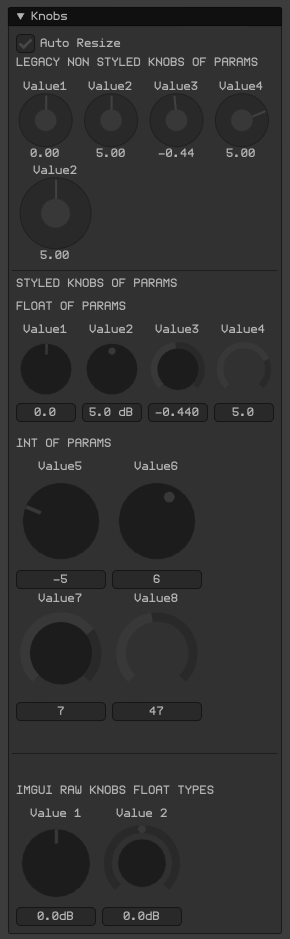
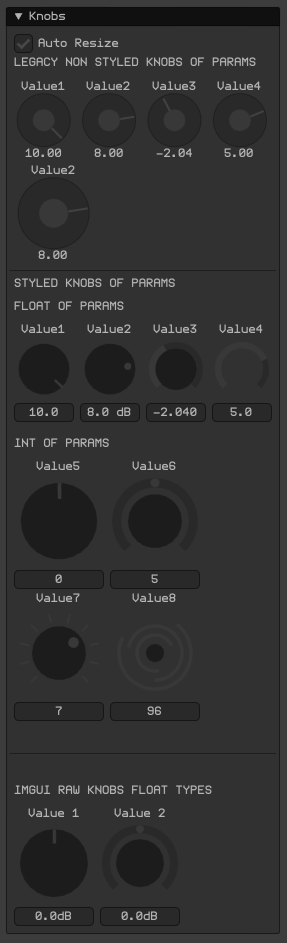
+

diff --git a/1_Widgets/1_8_Knobs/src/ofApp.cpp b/1_Widgets/1_8_Knobs/src/ofApp.cpp
@@ -41,15 +41,15 @@ void ofApp::draw() {
 				// Legacy Non Styled Knobs ofParams
 
 				ImGui::Text("LEGACY NON STYLED KNOBS OF PARAMS");
-				ofxImGuiSurfing::AddSpacingDouble(); 
-				
+				ofxImGuiSurfing::AddSpacingDouble();
+
 				guiManager.Add(valueKnob1, OFX_IM_KNOB, 4, true);
 				guiManager.Add(valueKnob2, OFX_IM_KNOB, 4, true);
 				guiManager.Add(valueKnob3, OFX_IM_KNOB, 4, true);
 				guiManager.Add(valueKnob4, OFX_IM_KNOB, 4, false);
 
 				ofxImGuiSurfing::AddKnob(valueKnob2);
-				
+
 				ofxImGuiSurfing::AddSpacingSeparated();
 
 				//-
@@ -63,6 +63,7 @@ void ofApp::draw() {
 				ofxImGuiSurfing::AddSpacingDouble();
 
 				float size1 = 60;
+
 				ofxImGuiSurfing::AddKnobStyled(valueKnob1, OFX_IMGUI_KNOB_TICKKNOB, size1, "%.1f");
 				ImGui::SameLine();
 				ofxImGuiSurfing::AddKnobStyled(valueKnob2, OFX_IMGUI_KNOB_DOTKNOB, size1, "%.1f dB");
@@ -77,13 +78,20 @@ void ofApp::draw() {
 				ofxImGuiSurfing::AddSpacingDouble();
 
 				float size2 = 90;
-				ofxImGuiSurfing::AddKnobStyled(valueKnob5, OFX_IMGUI_KNOB_TICKKNOB, size2);
-				ImGui::SameLine();
-				ofxImGuiSurfing::AddKnobStyled(valueKnob6, OFX_IMGUI_KNOB_DOTKNOB, size2);
 
-				ofxImGuiSurfing::AddKnobStyled(valueKnob7, OFX_IMGUI_KNOB_WIPERKNOB, size2);
+				ImGuiKnobFlags flags;
+				flags += ImGuiKnobFlags_ValueTooltip;
+				flags += ImGuiKnobFlags_NoTitle;
+				flags += ImGuiKnobFlags_NoInput;
+				flags += ImGuiKnobFlags_DragHorizontal;
+				ofxImGuiSurfing::AddKnobStyled(valueKnob5, OFX_IMGUI_KNOB_TICKKNOB, size2, "-1", flags);
+
 				ImGui::SameLine();
-				ofxImGuiSurfing::AddKnobStyled(valueKnob8, OFX_IMGUI_KNOB_WIPERONLYKNOB, size2);
+				ofxImGuiSurfing::AddKnobStyled(valueKnob6, OFX_IMGUI_KNOB_WIPERDOTKNOB, size2);
+
+				ofxImGuiSurfing::AddKnobStyled(valueKnob7, OFX_IMGUI_KNOB_STEPPEDKNOB, size2);
+				ImGui::SameLine();
+				ofxImGuiSurfing::AddKnobStyled(valueKnob8, OFX_IMGUI_KNOB_SPACEKNOB, size2);
 
 				//--
 
@@ -104,7 +112,7 @@ void ofApp::draw() {
 				}
 				ImGui::SameLine();
 
-				if (ImGuiKnobs::Knob("Value 2", &value2, -6.0f, 6.0f, 12 / 350.f, "%.1fdB", ImGuiKnobVariant_WiperDot, size, ImGuiKnobFlags_DragHorizontal))
+				if (ImGuiKnobs::Knob("Value 2", &value2, -6.0f, 6.0f, 12 / 350.f, "%.1fdB", ImGuiKnobVariant_WiperDot, size, flags))
 				{
 				}
 				ImGui::SameLine();
